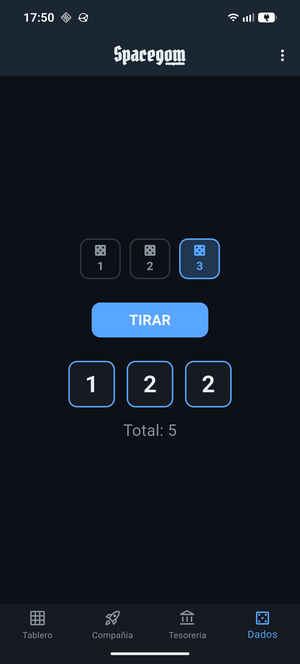
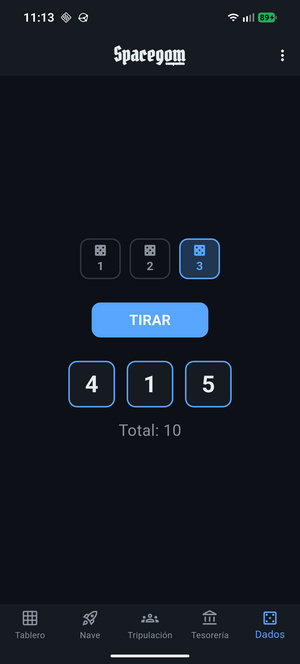
Update screenshots for v1.5.0 with new tabs and features

diff --git a/README.md b/README.md
@@ -13,13 +13,13 @@ Digitaliza las hojas de registro en papel del juego (ficha de compañía, tabler
 
 ## Capturas de pantalla
 
-| Tablero | Plantilla | Tesorería |
+| Tablero | Nave | Tripulación |
 |:---:|:---:|:---:|
-| ![Tablero](screenshots/tablero.png) | ![Plantilla](screenshots/plantilla.png) | ![Tesorería](screenshots/tesoreria.png) |
+| ![Tablero](screenshots/tablero.png) | ![Nave](screenshots/nave.png) | ![Tripulación](screenshots/tripulacion.png) |
 
-| Dados | Calendario |
-|:---:|:---:|
-| ![Dados](screenshots/dados.png) | ![Calendario](screenshots/calendario.png) |
+| Tesorería | Calendario | Dados |
+|:---:|:---:|:---:|
+| ![Tesorería](screenshots/tesoreria.png) | ![Calendario](screenshots/calendario.png) | ![Dados](screenshots/dados.png) |
 
 ## Requisitos
 
